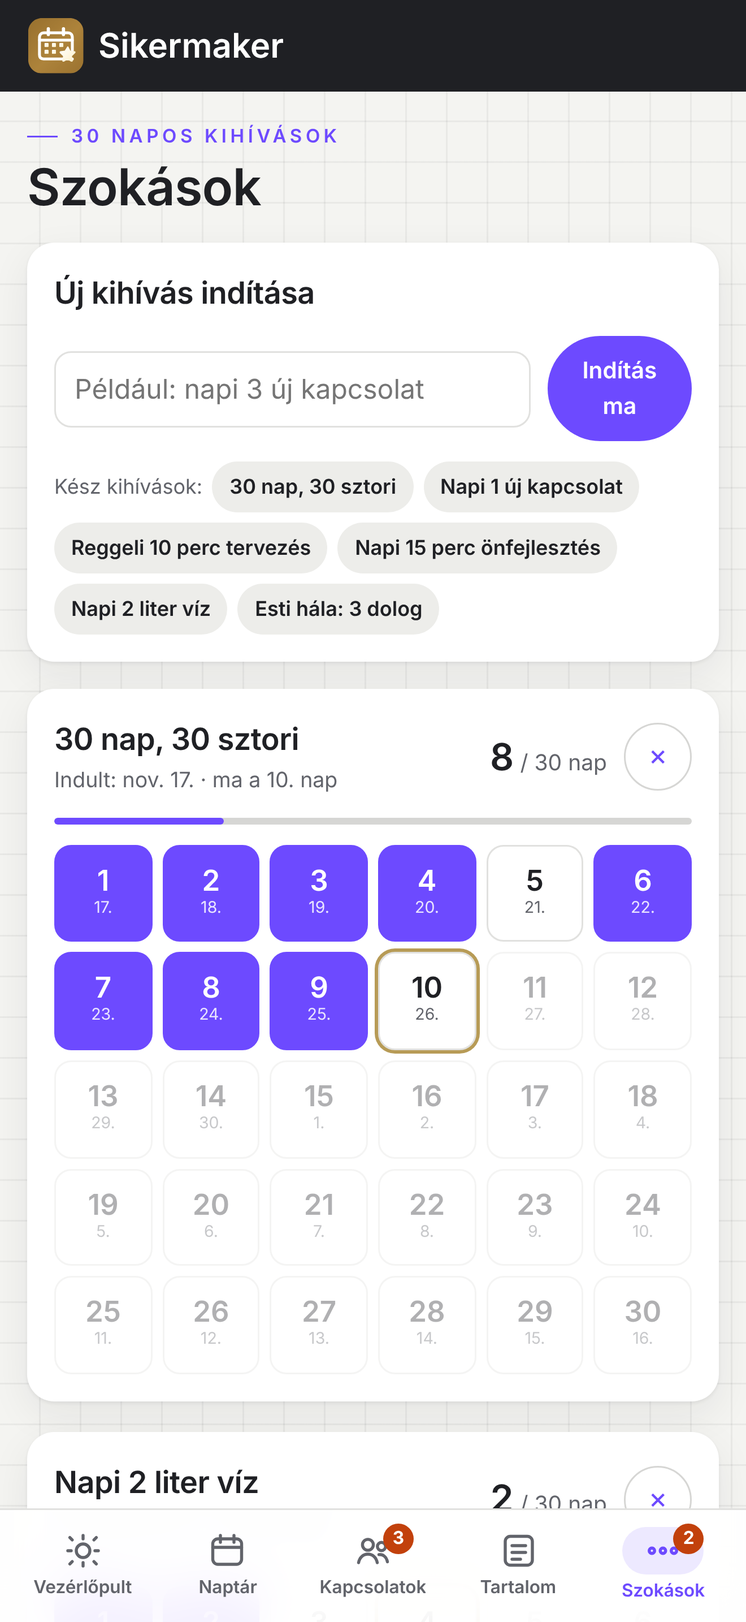
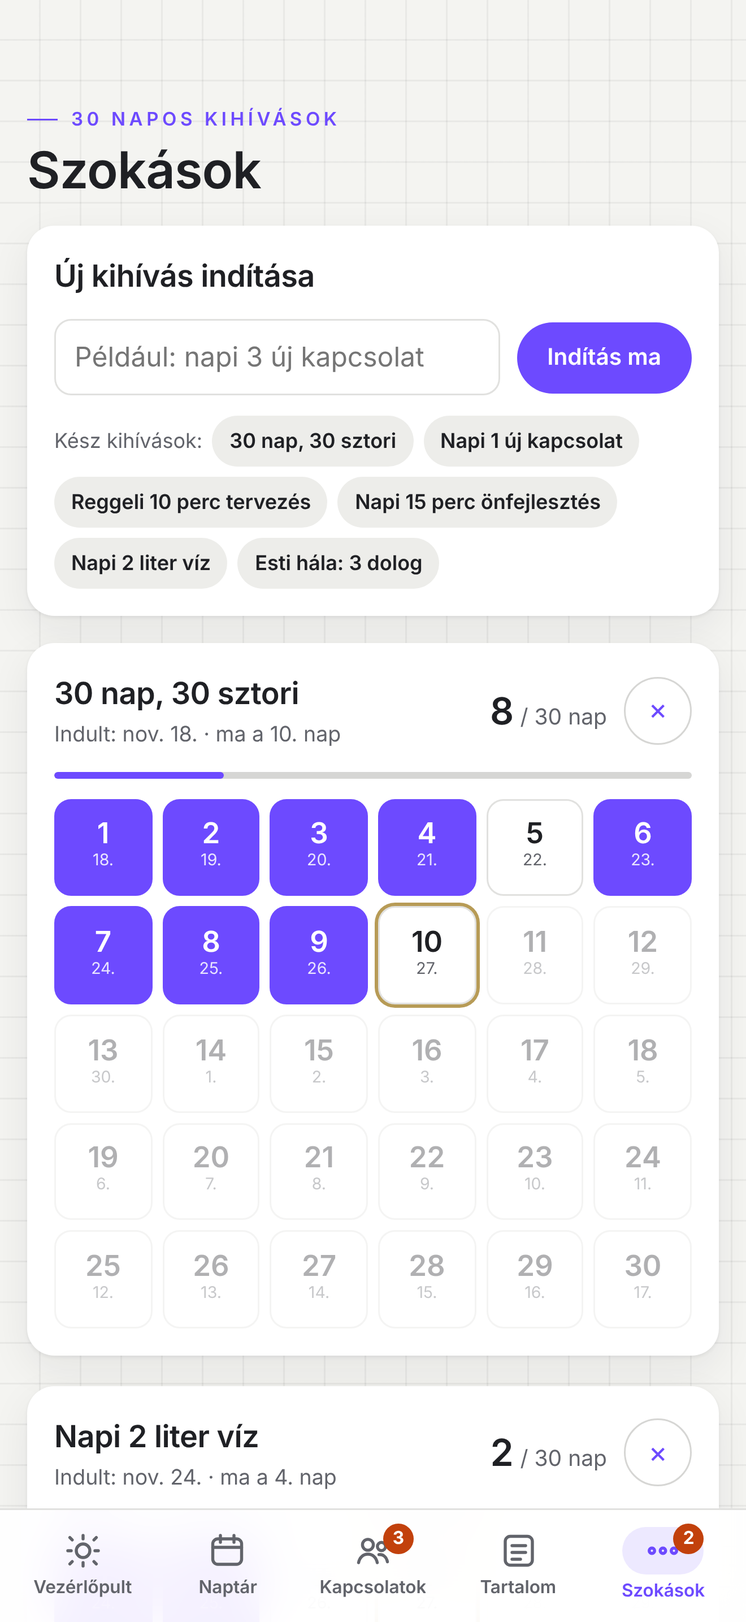
iOS-app: mobilos megjelenés és App Review-javítások
Megjelenés (telefon):
- az appban nincs sötét felső sáv: az oldal címe a fejléc, az állapotsor az oldal háttere fölött, elmosott sávval
- a lebegő gombok (értékelő, matricák) kisebbek, egymás mellett; az oldal alján hely marad alattuk
- havi naptár: Kezdet/Zárás rövid jele (K/Z) nem lóg ki, kis korona, jelmagyarázat listában
- „Indítás ma” egy sorban; Ügyfelek/Rendelések táblázat vízszintesen görgethető, nem nyomódik össze
- Gondolattérkép: a „Teljes térkép” a csomópontokra igazít, telefonon megnyitáskor is; álló minta-térkép;
  a vászon kitölti a képernyőt; alsó menüben „Térkép”
- kézírásos matrica nem törik a szó közepén; könyvborító-helyőrzők csak világosak

App Review:
- Info.plist: kamera- és fotótár-használat indoklása (a képfeltöltés „Fotó készítése” opciója enélkül leállítja az appot)
- az appban nem működő letöltések (adatok, oklevél) nem jelennek meg
- „hamarosan” feliratok és a még nem működő emlékeztető-opciók (periódus zárása, e-mail) az appban rejtve
- bemutató mód: „ezen a telefonon” a „böngésző” helyett; saját idézet a mintaadatban
- App Store-képernyőképek újragenerálva az új kinézettel

Claude-Session: https://claude.ai/code/session_01RZyFLAVJEo5LhVzanRKEyn

diff --git a/public/js/app.js b/public/js/app.js
@@ -56,7 +56,7 @@ function sample(){
       orders.push({id:uid(),date:iso(dt),client:names[i%names.length],items:["Arcápoló szett","Parfüm","Smink csomag","Vitamin","Testápoló"][i%5],amount:6000+Math.round(Math.random()*24)*1000,paid:m>0||Math.random()<.6});}
   }
   return {
-    v:1,seed:2,
+    v:1,seed:3,
     settings:{name:"Anna",cur:"Ft",steps:["Poszt","Sztori","Új kapcsolat","Utánkövetés",FEAT("csapat")?"Csapat":"Tanulás"]},
     days,
     contacts:[
@@ -101,7 +101,7 @@ function sample(){
 /* ---------- storage ---------- */
 let S=ctx.state&&ctx.state.v?ctx.state:(DEMO?sample():blank());
 // bemutató: ha a böngészőben egy régebbi mintaadat-készlet van elmentve, az újra cseréljük (a mintaadatok változtak)
-const DEMO_SEED=2;
+const DEMO_SEED=3; // 3: álló minta-gondolattérkép, saját idézet az olvasásnál
 if(DEMO&&(S.seed||0)<DEMO_SEED){S=sample();S.unlocked={};S.maps=[sampleMap()];setTimeout(save,0)}
 function save(){if(NATIVE&&ST.native)ST.native.reschedule(S);return ST.store.save(S)}
 function migrate(){
@@ -117,7 +117,7 @@ function migrate(){
 migrate();
 if(!S.mig3){if(S.blank){S.bp=S.bp||{};S.books=S.books||[]}else{S.bp=S.bp||{};}S.orders.forEach(o=>{if(o.points==null)o.points=Math.round((+o.amount||0)/450)});Object.assign(S.settings,{ptName:S.settings.ptName||"pont",ptGoal:S.settings.ptGoal||300,gpGoal:S.settings.gpGoal||4000,lvlName:S.settings.lvlName||"Vezető"});
   if(!S.blank){let g=1650;for(let i=12;i>=1;i--){const k=iso(addDays(TODAY,-i));if(k.slice(0,7)!==ym(TODAY))continue;g+=Math.round(40+Math.random()*90);S.bp[k]={gp:i%3===0?"":g,sp:i%4===0?12:""}}}
-  S.books=S.books||(S.blank?[]:[{id:uid(),title:"Atomi szokások",author:"James Clear",status:"olvasom",progress:40,started:iso(addDays(TODAY,-12)),note:"Nem a célom szintjére emelkedem, hanem a rendszereim szintjére süllyedek."},{id:uid(),title:"Gondolkodj és gazdagodj",author:"Napoleon Hill",status:"szeretnem",progress:0}]);
+  S.books=S.books||(S.blank?[]:[{id:uid(),title:"Atomi szokások",author:"James Clear",status:"olvasom",progress:40,started:iso(addDays(TODAY,-12)),note:"Minden nap egy kicsit jobban, mint tegnap."},{id:uid(),title:"Gondolkodj és gazdagodj",author:"Napoleon Hill",status:"szeretnem",progress:0}]);
   S.mig3=true;save()}
 if(!S.mig4){if(!S.periods)S.periods=S.blank?[{id:uid(),name:"Aktuális periódus",start:T,end:iso(addDays(TODAY,27))}]:[{id:uid(),name:"Aktuális periódus",start:iso(addDays(TODAY,-12)),end:iso(addDays(TODAY,8))},{id:uid(),name:"Következő periódus",start:iso(addDays(TODAY,9)),end:iso(addDays(TODAY,29))}];
   Object.assign(S.settings,{founder:S.settings.founder!=null?S.settings.founder:(DEMO&&BR.founder.enabled),founderSince:S.settings.founderSince||(DEMO?iso(addDays(TODAY,-20)):"")});
@@ -313,8 +313,8 @@ function nav(){
   if(tb){
     const restBadge=VIEWS.filter(([k])=>!TABS.includes(k)).reduce((a,[k])=>a+navBadge(k,dc),0);
     const inRest=!TABS.includes(route);
-    tb.innerHTML=TABS.map(k=>{const l=(VIEWS.find(v=>v[0]===k)||[k,k])[1],n=navBadge(k,dc);return `<a href="#${k}" class="tab" ${route===k?'aria-current="page"':""}>${nicon(k)}<span>${l}</span>${PRO_VIEWS.includes(k)?proTag("tpro"):""}${n?`<i class="tbadge">${n}</i>`:""}</a>`}).join("")
-      +`<button type="button" class="tab" data-act="more" ${inRest?'aria-current="page"':""} aria-haspopup="dialog">${nicon("tobb")}<span>${inRest?esc((VIEWS.find(v=>v[0]===route)||["",""])[1]):"Több"}</span>${restBadge?`<i class="tbadge">${restBadge}</i>`:""}</button>`;
+    tb.innerHTML=TABS.map(k=>{const l=({terkep:"Térkép"})[k]||(VIEWS.find(v=>v[0]===k)||[k,k])[1],n=navBadge(k,dc);return `<a href="#${k}" class="tab" ${route===k?'aria-current="page"':""}>${nicon(k)}<span>${l}</span>${PRO_VIEWS.includes(k)?proTag("tpro"):""}${n?`<i class="tbadge">${n}</i>`:""}</a>`}).join("")
+      +`<button type="button" class="tab" data-act="more" ${inRest?'aria-current="page"':""} aria-haspopup="dialog">${nicon("tobb")}<span>${inRest?esc(({terkep:"Térkép"})[route]||(VIEWS.find(v=>v[0]===route)||["",""])[1]):"Több"}</span>${restBadge?`<i class="tbadge">${restBadge}</i>`:""}</button>`;
   }
   const mt=$("#mtitle");if(mt)mt.textContent=(VIEWS.find(v=>v[0]===route)||["",""])[1];
 }
@@ -490,13 +490,13 @@ function vNaptar(){
       const hrs=hoursOf(k);
       const tk=dd?dd.tasks.length:0;
       cells+=`<button class="day ${d.getMonth()!==M-1?"out":""} ${k===T?"today":""} ${sc===5?"gold":""}" data-act="opennap" data-k="${k}" ${sc===5?'title="Arany nap: mind az 5 lépés megvolt"':""}>
-        <span class="n num">${d.getDate()}</span>${(()=>{const pm=periodMark(k);return pm?`<span class="pmark ${pm}">${pm==="start"?"Kezdet":"Zárás"}</span>`:""})()}${sc===5?`<span class="goldmark" aria-hidden="true">${TH.svg(ICONS.crown).replace(/width="\d+" height="\d+"/,'width="18" height="16"')}</span>`:""}
+        <span class="n num">${d.getDate()}</span>${(()=>{const pm=periodMark(k);return pm?`<span class="pmark ${pm}" data-s="${pm==="start"?"K":"Z"}">${pm==="start"?"Kezdet":"Zárás"}</span>`:""})()}${sc===5?`<span class="goldmark" aria-hidden="true">${TH.svg(ICONS.crown).replace(/width="\d+" height="\d+"/,'width="18" height="16"')}</span>`:""}
         <span class="marks">${cs.map(c=>`<span class="dot" style="background:var(--p${c.pillar+1})" title="${esc(c.title)}"></span>`).join("")}</span>
         ${hrs.length?`<span class="mini"><b>${pad(hrs[0][0])}:00</b> ${esc(hrs[0][1])}</span>`:""}${hrs.length>1?`<span class="mini">+${hrs.length-1} időpont</span>`:""}${tk&&hrs.length<2?`<span class="mini">${tk} teendő</span>`:""}${extOf(k).slice(0,2).map(e=>`<span class="mini extmini" style="--c:${esc(e.color)}">${e.allDay?"":`<b>${e.start}</b> `}${esc(e.title)}</span>`).join("")}${extOf(k).length>2?`<span class="mini">+${extOf(k).length-2} más naptárból</span>`:""}
         <span class="meter"><i style="width:${sc*20}%"></i></span></button>`;
       if(i===34&&addDays(start,35).getMonth()!==M-1)break;
     }
-    body=`<div class="calrow"><div class="card page"><div class="cal">${cells}</div><div class="row muted" style="font-size:12px;margin-top:12px"><span>Koppints egy napra a napi nézethez.</span><span>·</span><span>Korona: arany nap, mind az 5 lépés megvolt</span><span>·</span><span>Kezdet és Zárás: a periódus határai</span><span>·</span><span>A csík: napi lépések</span><span>·</span><span>Színes pötty: tartalom pillérenként</span></div>${board(activeBoard)}</div>${todoCard("m:"+ui.calMonth,"A hónap teendői","Írd ide, amit ebben a hónapban el akarsz intézni.")}</div>`;
+    body=`<div class="calrow"><div class="card page"><div class="cal">${cells}</div><div class="row muted calegend" style="font-size:12px;margin-top:12px"><span>Koppints egy napra a napi nézethez.</span><span class="sep">·</span><span>Korona: arany nap, mind az 5 lépés megvolt</span><span class="sep">·</span><span>Kezdet (K) és Zárás (Z): a periódus határai</span><span class="sep">·</span><span>A csík: napi lépések</span><span class="sep">·</span><span>Színes pötty: tartalom pillérenként</span></div>${board(activeBoard)}</div>${todoCard("m:"+ui.calMonth,"A hónap teendői","Írd ide, amit ebben a hónapban el akarsz intézni.")}</div>`;
   }else if(mode==="het"){
     const m=mondayOf(ui.selDay);activeBoard="het-"+iso(m);title=weekLabel(m);
     const cols=[0,1,2,3,4,5,6].map(i=>{const d=addDays(m,i),k=iso(d),dd=S.days[k]||{tasks:[],steps:[]};const sc=(dd.steps||[]).filter(Boolean).length;const hrs=hoursOf(k);const cs=S.content.filter(c=>c.date===k);
@@ -763,7 +763,7 @@ function openMsg(k,v,done){
   $("#layer").innerHTML=`<div class="modal" data-act="close"><div class="sheet" role="dialog" aria-label="Üzenet"><div class="row between"><div><div class="eyebrow">Üzenetvázlat</div><h2>${esc(TPL_DEFAULT[k][0])}${v.full?": "+esc(v.full):""}</h2></div><button type="button" class="iconbtn" data-act="close" aria-label="Bezárás">×</button></div>
   ${PRO&&!DEMO&&ctx.emailReady?`<div class="grid g2"><label class="f">E-mail-cím<input type="email" id="msgto" value="${esc(v.email||"")}" placeholder="pelda@pelda.hu"></label><label class="f">Tárgy<input type="text" id="msgsubj" maxlength="150" value="${esc(TPL_DEFAULT[k][0])}"></label></div>`:""}
   <label class="f">Igazítsd a saját szavaidra, aztán ${PRO&&!DEMO&&ctx.emailReady?"küldd el e-mailben, vagy ":""}másold be Messengerbe vagy SMS-be.<textarea id="msgtext" rows="6">${esc(fillTpl(k,v))}</textarea></label>
-  <div class="row between"><span class="muted" style="font-size:12px">${FEAT("sablonok")?"A sablonokat a Beállításokban írhatod át.":""}</span><span class="row">${PRO&&!DEMO&&!ctx.emailReady?'<button class="btn" data-act="msgcopy">Másolás</button><span class="chip" title="Az e-mail-küldés bekapcsolása folyamatban">E-mail: hamarosan</span>':PRO&&!DEMO?'<button class="btn" data-act="msgsend">Küldés e-mailben</button><button class="btn ghost" data-act="msgcopy">Másolás</button>':!PRO?'<button class="btn" data-act="msgcopy">Másolás</button><a class="chip" href="#kapcsolatok" title="E-mail küldése a Pro csomagban">E-mail: Pro</a>':'<button class="btn" data-act="msgcopy">Másolás</button>'}${done?`<button class="btn ghost" data-act="${done.act}" data-id="${done.id}">${esc(done.label)}</button>`:""}</span></div></div></div>`;
+  <div class="row between"><span class="muted" style="font-size:12px">${FEAT("sablonok")?"A sablonokat a Beállításokban írhatod át.":""}</span><span class="row">${PRO&&!DEMO&&!ctx.emailReady?'<button class="btn" data-act="msgcopy">Másolás</button>'+(NATIVE?"":'<span class="chip" title="Az e-mail-küldés bekapcsolása folyamatban">E-mail: hamarosan</span>'):PRO&&!DEMO?'<button class="btn" data-act="msgsend">Küldés e-mailben</button><button class="btn ghost" data-act="msgcopy">Másolás</button>':!PRO?'<button class="btn" data-act="msgcopy">Másolás</button><a class="chip" href="#kapcsolatok" title="E-mail küldése a Pro csomagban">E-mail: Pro</a>':'<button class="btn" data-act="msgcopy">Másolás</button>'}${done?`<button class="btn ghost" data-act="${done.act}" data-id="${done.id}">${esc(done.label)}</button>`:""}</span></div></div></div>`;
 }
 
 /* ---------- következő lépés ---------- */
@@ -946,7 +946,7 @@ async function openCert(id){
   const a=id==="alapito"?FOUNDER:ACH.find(x=>x.id===id);if(!a)return;
   $("#layer").innerHTML=`<div class="modal" data-act="close"><div class="sheet certsheet" role="dialog" aria-label="Oklevél"><div class="row between"><div><div class="eyebrow">Oklevél</div><h2>${esc(a.t)}</h2></div><button type="button" class="iconbtn" data-act="close" aria-label="Bezárás">×</button></div><div class="certprev" id="certprev"><span class="muted">Készül az oklevél…</span></div><div class="row between"><span class="muted" style="font-size:12px" id="certnote">Kinyomtathatod, vagy megoszthatod a közösségi oldaladon.</span><button class="btn" id="certdl" data-act="certdl" data-id="${a.id}" hidden>Letöltés (PNG)</button></div></div></div>`;
   const c=await drawCert(a);const url=c.toDataURL("image/png");const pv=$("#certprev");if(!pv)return;pv.innerHTML=`<img src="${url}" alt="Oklevél: ${esc(a.t)}">`;
-  window.__cert=c;const btn=$("#certdl");if(btn)btn.hidden=false;
+  window.__cert=c;const btn=$("#certdl");if(btn&&!NATIVE)btn.hidden=false;
 }
 function downloadCert(id){
   const c=window.__cert;if(!c)return;
@@ -958,20 +958,20 @@ function downloadCert(id){
 function remindNativeNote(){
   const st=ui.notif;
   if(st===undefined&&ST.native&&ST.native.remindAvailable()){ui.notif=null;ST.native.permission().then(ok=>{ui.notif=ok;render()})}
-  return `<p class="muted" style="margin:0;font-size:12.5px">A reggeli összefoglaló, az esti zárás, az utánkövetés és a születésnap értesítésként érkezik erre a telefonra (a periódus zárása és az e-mail később indul).</p>${st===false&&S.reminders&&S.reminders.push?`<div class="row"><button class="btn small" data-act="notifon">Értesítések engedélyezése</button><span class="muted" style="font-size:12px">Ha korábban letiltottad: iPhone Beállítások → Sikermaker → Értesítések.</span></div>`:""}`;
+  return `<p class="muted" style="margin:0;font-size:12.5px">A reggeli összefoglaló, az esti zárás, az utánkövetés és a születésnap értesítésként érkezik erre a telefonra.</p>${st===false&&S.reminders&&S.reminders.push?`<div class="row"><button class="btn small" data-act="notifon">Értesítések engedélyezése</button><span class="muted" style="font-size:12px">Ha korábban letiltottad: iPhone Beállítások → Sikermaker → Értesítések.</span></div>`:""}`;
 }
 const REMINDERS=[["reggel","Reggeli összefoglaló","Minden reggel: mai időpontok, kit keress meg, mai lépések."],["esti","Esti zárás","Este emlékeztet, hogy zárd le a napot."],["utan","Utánkövetés","Amikor valakit esedékes megkeresni."],["zaras","Periódus zárása","3 nappal és 1 nappal a zárás előtt, a hiányzó pontokkal."],["szulinap","Születésnap","Reggel, ha egy ügyfeled ünnepel."]];
 function remindersCard(){const r=S.reminders||(S.reminders={reggel:true,esti:true,utan:true,zaras:true,szulinap:true,reggelIdo:"07:30",estiIdo:"20:30",push:true,email:false});
   return `<div class="card stack"><h3>Emlékeztetők</h3>${NATIVE?remindNativeNote():`<p class="muted" style="margin:0;font-size:12.5px">A beállításaidat elmentjük. Az értesítések kiküldése (telefonos értesítés és e-mail) a következő fejlesztési lépésben indul.</p>`}
-  <div class="list">${REMINDERS.map(([k,l,d])=>`<div class="li"><button class="cbx" data-act="rem" data-k="${k}" aria-pressed="${!!r[k]}" aria-label="${esc(l)}">${r[k]?"✓":""}</button><div class="grow"><div class="t">${esc(l)}</div><div class="s">${esc(d)}</div></div>${k==="reggel"||k==="esti"?`<input type="time" class="remtime" id="rem-${k}" data-remt="${k}Ido" value="${r[k+"Ido"]}" aria-label="${esc(l)} időpontja">`:""}</div>`).join("")}</div>
-  <div class="row" style="gap:6px"><span class="lab2" style="margin:0">Hogyan?</span><button class="mood" data-act="rem" data-k="push" aria-pressed="${!!r.push}">Értesítés a telefonra</button><button class="mood" data-act="rem" data-k="email" aria-pressed="${!!r.email}">E-mail</button></div></div>`}
+  <div class="list">${REMINDERS.filter(([k])=>!(NATIVE&&k==="zaras")).map(([k,l,d])=>`<div class="li"><button class="cbx" data-act="rem" data-k="${k}" aria-pressed="${!!r[k]}" aria-label="${esc(l)}">${r[k]?"✓":""}</button><div class="grow"><div class="t">${esc(l)}</div><div class="s">${esc(d)}</div></div>${k==="reggel"||k==="esti"?`<input type="time" class="remtime" id="rem-${k}" data-remt="${k}Ido" value="${r[k+"Ido"]}" aria-label="${esc(l)} időpontja">`:""}</div>`).join("")}</div>
+  ${NATIVE?"":`<div class="row" style="gap:6px"><span class="lab2" style="margin:0">Hogyan?</span><button class="mood" data-act="rem" data-k="push" aria-pressed="${!!r.push}">Értesítés a telefonra</button><button class="mood" data-act="rem" data-k="email" aria-pressed="${!!r.email}">E-mail</button>`}</div></div>`}
 
 /* ---------- olvasás, könyvajánló ---------- */
 const BOOK_RECS_DEFAULT=[["Atomi szokások","James Clear","Apró változások, amelyekből nagy eredmény lesz."],["Hogyan szerezzünk barátokat és befolyásoljuk az embereket","Dale Carnegie","Kapcsolatépítés tukmálás nélkül."],["Gondolkodj és gazdagodj","Napoleon Hill","A célok és a kitartás klasszikusa."],["Gazdag papa, szegény papa","Robert T. Kiyosaki","Pénzügyi gondolkodás vállalkozóknak."],["A kiemelkedően sikeres emberek 7 szokása","Stephen R. Covey","Önvezetés és prioritások."],["Szemléletváltás","Carol S. Dweck","A fejlődési szemlélet ereje."]];
 const BOOK_RECS=BR.books.length?BR.books:BOOK_RECS_DEFAULT;
 const KLUB=FEAT("konyvklub")&&BR.books.length>0; // Könyvklub: a márka könyvlistája, a megadott sorrendben
 const BSTAT=[["olvasom","Most olvasom"],["szeretnem","Szeretném elolvasni"],["kesz","Elolvastam"]];
-function coverHTML(b){let h=0;for(const ch of b.title)h=(h*31+ch.charCodeAt(0))>>>0;const P=TH.palette(),cs=[P.accent,P.ink,P.hl500,P.accentDeep,P.grayDark,P.hl300],c=cs[h%6];const fg=TH.util.readableOn(c,P.ink,P.paper);return `<span class="bcover" style="background:${c};color:${fg}" aria-hidden="true"><span>${esc(b.title)}</span></span>`}
+function coverHTML(b){let h=0;for(const ch of b.title)h=(h*31+ch.charCodeAt(0))>>>0;const P=TH.palette(),mx=TH.util.mix,cs=[P.hl300,P.hl100,mx(P.accent,"#FFFFFF",0.78),mx(P.hl500,"#FFFFFF",0.6)],c=cs[h%4];const fg=TH.util.readableOn(c,P.ink,P.paper);return `<span class="bcover" style="background:${c};color:${fg}" aria-hidden="true"><span>${esc(b.title)}</span></span>`}
 /* ---------- notesz (márkafunkció) ---------- */
 // Lapozható jegyzetfüzet: S.notes = [{id,t,b,at}], a lap mintája S.prefs.paper = kockas | csikos | sima.
 const PAPERS=[["csikos","Vonalas"],["kockas","Kockás"],["sima","Sima"]];
@@ -1083,7 +1083,12 @@ function setMapZoom(m,z,keepCenter){
   if(cv){cv.style.transform=`scale(${z})`;sz.style.width=mapW(m)*z+"px";sz.style.height=mapH(m)*z+"px";if(lb)lb.textContent=Math.round(z*100)+"%"}
   if(w&&keepCenter!==false){w.scrollLeft=cx*z-w.clientWidth/2;w.scrollTop=cy*z-w.clientHeight/2}
 }
-function fitMap(m){const w=$("#mapwrap");if(!w)return;const z=Math.min(w.clientWidth/mapW(m),w.clientHeight/mapH(m))*0.98;setMapZoom(m,z,false);w.scrollLeft=0;w.scrollTop=0}
+// a teljes térkép: a csomópontok köré igazít (nem a teljes lapra), így telefonon is minden ág látszik
+function fitMap(m){const w=$("#mapwrap");if(!w)return;
+  if(!m.nodes.length){const z=Math.min(w.clientWidth/mapW(m),w.clientHeight/mapH(m))*0.98;setMapZoom(m,z,false);w.scrollLeft=0;w.scrollTop=0;return}
+  let x0=Infinity,y0=Infinity,x1=-Infinity,y1=-Infinity;m.nodes.forEach(n=>{const b=nodeBox(m,n);x0=Math.min(x0,n.x-b.w/2);x1=Math.max(x1,n.x+b.w/2);y0=Math.min(y0,n.y-b.h/2);y1=Math.max(y1,n.y+b.h/2)});
+  const pad=28,z=Math.min(1.2,w.clientWidth/(x1-x0+pad*2),w.clientHeight/(y1-y0+pad*2));setMapZoom(m,z,false);const zz=mapZoom(m);
+  w.scrollLeft=(x0+x1)/2*zz-w.clientWidth/2;w.scrollTop=(y0+y1)/2*zz-w.clientHeight/2}
 // becsült doboz-méret (px) egy ág szövegéhez — az ütközésfeloldáshoz
 function nodeBox(m,n){const l=nodeLevel(m,n),len=String(n.t||"").length||1;const cw=l===0?11:7.3,maxw=l===0?300:190,pad=l===0?44:30;const w=Math.min(maxw,len*cw+pad);const lines=Math.max(1,Math.ceil(len*cw/(w-pad)));return {w,h:l===0?lines*25+30:lines*17+20}}
 // egymásra lógó ágak széttolása (a középpont helyben marad)
@@ -1099,13 +1104,14 @@ function relaxMap(m,iter){
 }
 const curMap=()=>(S.maps||[]).find(m=>m.id===ui.mapId)||(S.maps||[])[0];
 function sampleMap(){
-  const r=uid(),a=uid(),b=uid(),c=uid(),d=uid();
+  // álló elrendezés (4 ág, ágankét 2 levél): telefonon is olvasható méretben elfér, asztalin is rendezett
+  const r=uid(),a=uid(),b=uid(),c=uid(),d=uid(),X=700,L=X-170,R=X+170;
   return {id:uid(),title:"A márkám jövőre",nodes:[
-    {id:r,x:700,y:430,t:"A márkám jövőre",p:null},
-    {id:a,x:430,y:250,t:"Kinek segítek?",p:r},{id:uid(),x:250,y:160,t:"Kisgyerekes anyukák",p:a},{id:uid(),x:240,y:300,t:"Mellékállást keresők",p:a},
-    {id:b,x:980,y:250,t:"Tartalom",p:r},{id:uid(),x:1170,y:160,t:"Heti 3 Reel",p:b},{id:uid(),x:1180,y:300,t:"Napi sztori",p:b},
-    {id:c,x:440,y:620,t:"Csapat",p:r},{id:uid(),x:250,y:700,t:"5 új vezető",p:c},
-    {id:d,x:970,y:620,t:"Bevétel",p:r},{id:uid(),x:1170,y:700,t:"Havi 500 000 Ft",p:d}]};
+    {id:r,x:X,y:450,t:"A márkám jövőre",p:null},
+    {id:a,x:L,y:210,t:"Kinek segítek?",p:r},{id:uid(),x:L,y:90,t:"Kisgyerekes anyukák",p:a},{id:uid(),x:L,y:330,t:"Mellékállást keresők",p:a},
+    {id:b,x:R,y:210,t:"Tartalom",p:r},{id:uid(),x:R,y:90,t:"Heti 3 Reel",p:b},{id:uid(),x:R,y:330,t:"Napi sztori",p:b},
+    {id:c,x:L,y:690,t:"Csapat",p:r},{id:uid(),x:L,y:570,t:"5 új vezető",p:c},{id:uid(),x:L,y:810,t:"Heti csapathívás",p:c},
+    {id:d,x:R,y:690,t:"Bevétel",p:r},{id:uid(),x:R,y:570,t:"Havi 500 000 Ft",p:d},{id:uid(),x:R,y:810,t:"Új termékcsomag",p:d}]};
 }
 function nodeLevel(m,n){let l=0,cur=n;while(cur&&cur.p&&l<9){cur=m.nodes.find(x=>x.id===cur.p);l++}return l}
 function edgePath(a,b){const mx=(a.x+b.x)/2;return `M${a.x},${a.y} C${mx},${a.y} ${mx},${b.y} ${b.x},${b.y}`}
@@ -1136,7 +1142,7 @@ function bindMap(){
   if(route!=="terkep")return;
   const m=curMap(),cv=$("#mapcanvas"),wrap=$("#mapwrap");if(!cv||!m)return;
   const Z=()=>mapZoom(m);
-  if(mapCentered!==m.id){mapCentered=m.id;if(m.fitOnOpen){delete m.fitOnOpen;fitMap(m)}else{const r=m.nodes.find(n=>!n.p);if(r){wrap.scrollLeft=r.x*Z()-wrap.clientWidth/2;wrap.scrollTop=r.y*Z()-wrap.clientHeight/2}}}
+  if(mapCentered!==m.id){mapCentered=m.id;if(m.fitOnOpen||matchMedia("(max-width:860px)").matches){delete m.fitOnOpen;fitMap(m)}else{const r=m.nodes.find(n=>!n.p);if(r){wrap.scrollLeft=r.x*Z()-wrap.clientWidth/2;wrap.scrollTop=r.y*Z()-wrap.clientHeight/2}}}
   // Ctrl/⌘ + görgetés és csippentés (érintőpad) = nagyítás
   if(!wrap.dataset.zb){wrap.dataset.zb="1";wrap.addEventListener("wheel",e=>{if(!(e.ctrlKey||e.metaKey))return;e.preventDefault();setMapZoom(curMap(),mapZoom(curMap())*(e.deltaY<0?1.1:0.9))},{passive:false});
     let pd=0;wrap.addEventListener("touchmove",e=>{if(e.touches.length!==2)return;const d=Math.hypot(e.touches[0].clientX-e.touches[1].clientX,e.touches[0].clientY-e.touches[1].clientY);if(pd){e.preventDefault();setMapZoom(curMap(),mapZoom(curMap())*d/pd)}pd=d},{passive:false});wrap.addEventListener("touchend",()=>{pd=0})}
@@ -1292,10 +1298,10 @@ function brandCard(){
   return `<div class="grid g2" style="align-items:start" id="arculat"><div class="card stack" style="gap:14px"><h3 style="margin:0">Háttér</h3><p class="muted" style="margin:0;font-size:12.5px">Csak nálad látszik, bármikor visszaváltható.</p><div class="bgpick">${pats}</div><div class="colorrow">${cols}<input type="color" data-bgc="1" value="${bp.bgColor}" aria-label="Saját háttérszín"></div></div>${wl}</div>`;
 }
 function accountCard(){
-  if(DEMO)return `<div class="card stack"><h3>Bemutató mód</h3><p class="muted" style="margin:0">Most belépés nélkül, mintaadatokkal próbálod a tervezőt: amit beírsz, csak ebben a böngészőben marad meg. Fiókkal minden eszközödön ugyanazt látod.</p>
+  if(DEMO)return `<div class="card stack"><h3>Bemutató mód</h3><p class="muted" style="margin:0">Most belépés nélkül, mintaadatokkal próbálod a tervezőt: amit beírsz, csak ${NATIVE?"ezen a telefonon":"ebben a böngészőben"} marad meg. Fiókkal minden eszközödön ugyanazt látod.</p>
   <div class="row">${ctx.cloud?`<button class="btn" data-act="signup">${SIGNUP_CTA}</button>`:""}<span id="resetrow" class="row"><button class="btn ghost" data-act="resetask">Mintaadatok visszaállítása</button></span></div>
 </div>`;
-  return `<div class="card stack"><h3>Fiók</h3><div class="row between"><div><b>${esc((ctx.user&&ctx.user.email)||"")}</b><div class="muted" style="font-size:12.5px">A terved a fiókodhoz van mentve, minden eszközödön ugyanaz.</div>${consentRow()}</div><span class="row"><button class="btn ghost small" data-act="export">Adataim letöltése</button><button class="btn ghost small" data-act="logout">Kijelentkezés</button></span></div>${delAccountBlock()}</div>`;
+  return `<div class="card stack"><h3>Fiók</h3><div class="row between"><div><b>${esc((ctx.user&&ctx.user.email)||"")}</b><div class="muted" style="font-size:12.5px">A terved a fiókodhoz van mentve, minden eszközödön ugyanaz.</div>${consentRow()}</div><span class="row">${NATIVE?"":'<button class="btn ghost small" data-act="export">Adataim letöltése</button>'}<button class="btn ghost small" data-act="logout">Kijelentkezés</button></span></div>${delAccountBlock()}</div>`;
 }
 
 // Fiókom törlése (App Store 5.1.1(v), GDPR): a saját e-mail-cím beírásával erősíti meg; minden adat törlődik
@@ -1560,7 +1566,7 @@ function calSyncCard(){
     <details class="howto"><summary>Hogyan kötöm be?</summary><ol><li><b>iPhone:</b> koppints a „Megnyitás a telefonon” gombra, majd az „Előfizetés” gombra. Vagy kézzel: Beállítások → Naptár → Fiókok → Fiók hozzáadása → Egyéb → Előfizetett naptár → illeszd be a linket.</li><li><b>Google Naptár:</b> számítógépen a calendar.google.com oldalon bal oldalt a „Más naptárak” melletti <b>+</b> → „URL alapján” → illeszd be a linket → „Naptár hozzáadása”.</li><li><b>Outlook:</b> Naptár → Naptár hozzáadása → Feliratkozás a webről.</li></ol><p class="muted" style="margin:0;font-size:12px">A Google és az iPhone néhány óránként frissíti a feliratkozott naptárt, ezért egy új időpont késéssel jelenhet meg.</p></details>`;
   }
   return `<div class="card stack" id="naptarszinkron" style="gap:12px"><div class="row between"><h3 style="margin:0">Naptár-szinkron${proTag()}</h3><span class="chip">Google · iPhone · Outlook</span></div>${body}${PRO&&!DEMO?'<hr class="sep">'+importsBlock():""}
-  <p class="muted" style="margin:0;font-size:12px">A tervezőből a naptáraidba: feliratkozó link. A naptáraidból a tervezőbe: a „Más naptárak behúzása” rész. A Google Naptárba közvetlen írás (teljes kétirányú szinkron) hamarosan.</p></div>`;
+  <p class="muted" style="margin:0;font-size:12px">A tervezőből a naptáraidba: feliratkozó link. A naptáraidból a tervezőbe: a „Más naptárak behúzása” rész.${NATIVE?"":" A Google Naptárba közvetlen írás (teljes kétirányú szinkron) hamarosan."}</p></div>`;
 }
 
 /* ---------- heti és havi értékelő ---------- */

diff --git a/public/css/app.css b/public/css/app.css
@@ -796,3 +796,39 @@ hr.sep{border:0;border-top:1px solid var(--line);margin:4px 0;width:100%}
 .btn.danger{background:#B42318;border-color:#B42318;color:#fff}
 .btn.dangerline{color:#B42318;border-color:color-mix(in srgb,#B42318 45%,transparent)}
 .admdelc{display:block;flex:1 1 100%;background:#FDECEA;color:#7A1A12;border-radius:12px;padding:12px 14px;font-size:13px;line-height:1.5}
+
+/* ---------- iOS-app (html.native, js/native.js) ----------
+   Nincs sötét felső sáv: az oldal címe („Szia, …”, „November 2026”) a fejléc, az állapotsor az oldal háttere fölött van.
+   A biztonsági sáv (óra, akkumulátor) mögé a görgetett tartalom elmosva látszik, ahogy az iOS-appokban szokás. */
+.native .side{display:none}
+.native body::before{content:"";display:block;position:fixed;inset:0 0 auto;height:env(safe-area-inset-top,0px);z-index:35;
+  background:color-mix(in srgb,var(--bg) 82%,transparent);-webkit-backdrop-filter:saturate(1.6) blur(14px);backdrop-filter:saturate(1.6) blur(14px)}
+.native .main{padding-top:calc(env(safe-area-inset-top,0px) + 14px)}
+
+/* ---------- telefon: lebegő gombok, naptár, űrlapok, táblázatok ---------- */
+@media (max-width:860px){
+  /* a lebegő gombok (értékelő, matricák) kisebbek és egymás mellett vannak; az oldal alján hely marad alattuk */
+  .drawer{flex-direction:row;align-items:flex-end;gap:10px;right:max(12px,env(safe-area-inset-right,0px));bottom:calc(var(--tabbar-h) + 10px + env(safe-area-inset-bottom,0px))}
+  .drawer .fab,.drawer .revfab{width:44px;height:44px}
+  .drawer .fab .fi,.drawer .revfab .fi{font-size:18px}
+  .main{padding-bottom:calc(var(--tabbar-h) + 84px + env(safe-area-inset-bottom,0px))}
+  /* havi naptár: a Kezdet/Zárás jelölés rövid betű, a korona kicsi és nem lóg a dátumra */
+  .day .pmark{font-size:0;padding:0;width:16px;height:16px;border-radius:99px;display:grid;place-items:center;align-self:flex-start}
+  .day .pmark::after{content:attr(data-s);font-size:9.5px;letter-spacing:0}
+  .day{position:relative}
+  .goldmark{top:4px;right:4px}
+  .goldmark svg{width:12px;height:11px}
+  .calegend{flex-direction:column;align-items:flex-start;gap:2px}
+  .calegend .sep{display:none}
+  /* az „Indítás ma” egy sorban */
+  form[data-form="habit"] .btn{white-space:nowrap;flex:none}
+  /* széles táblázatok (Ügyfelek, Rendelések): vízszintesen görgethetők, nem nyomódnak össze */
+  .tablewrap{margin-inline:-4px;padding-inline:4px}
+  .tablewrap table{min-width:600px}
+  .tablewrap th,.tablewrap td{white-space:nowrap}
+  /* gondolattérkép: a vászon kitölti a képernyőt a menüsor fölött */
+  .mapwrap{height:calc(100dvh - var(--tabbar-h) - 150px - env(safe-area-inset-bottom,0px) - env(safe-area-inset-top,0px));min-height:360px}
+}
+/* kézírásos matrica: a szó közepén ne törjön („Megcsinálta / m!”) */
+.hnote,.cbtn .hnote{overflow-wrap:normal;word-break:normal;hyphens:manual}
+.cbtn .hnote{max-width:100%;font-size:calc(18px * var(--ss))}

diff --git a/public/js/native.js b/public/js/native.js
@@ -15,6 +15,8 @@
   const C = window.Capacitor;
   const on = !!(C && typeof C.isNativePlatform === "function" && C.isNativePlatform());
   const ORIGIN = "https://sikermaker.hu";
+  // az appban a <html class="native">: a CSS ehhez igazítja a megjelenést (nincs sötét felső sáv stb.)
+  if (on) document.documentElement.classList.add("native");
   const plugin = (name) => { try { return on && C.registerPlugin ? C.registerPlugin(name) : null; } catch (e) { return null; } };
   const Http = plugin("CapacitorHttp"), App = plugin("App"), LN = plugin("LocalNotifications"), Haptics = plugin("Haptics"), Browser = plugin("Browser");
 
@@ -121,16 +123,17 @@
   // mentésenként újraütemezés (összevonva), hogy a szöveg a friss teendőket mutassa
   function reschedule(state) { if (!on || !LN) return; clearTimeout(schedTimer); schedTimer = setTimeout(() => schedule(state, false), 1500); }
 
-  // állapotsor: a felső sáv (theme-color) színéhez igazított szövegszín; a márka színe menet közben is változhat
+  // állapotsor: az appban nincs sötét felső sáv, az állapotsor az oldal háttere fölött van → a háttér
+  // világosságához igazított szövegszín (a márka háttere menet közben is változhat)
   const StatusBar = plugin("StatusBar");
   function syncStatusBar() {
-    const m = document.querySelector('meta[name="theme-color"]'), c = (m && m.getAttribute("content")) || "#1F2024";
-    const h = /^#([0-9a-f]{6})$/i.exec(c.trim()); if (!h || !StatusBar) return;
-    const n = parseInt(h[1], 16), lum = (0.299 * (n >> 16) + 0.587 * ((n >> 8) & 255) + 0.114 * (n & 255)) / 255;
+    if (!StatusBar || !document.body) return;
+    const m = /rgba?\((\d+),\s*(\d+),\s*(\d+)/.exec(getComputedStyle(document.body).backgroundColor || "");
+    const lum = m ? (0.299 * m[1] + 0.587 * m[2] + 0.114 * m[3]) / 255 : 1;
     StatusBar.setStyle({ style: lum < 0.6 ? "DARK" : "LIGHT" }).catch(() => {}); // DARK = világos betű sötét háttéren
   }
   if (on && StatusBar) {
-    const start = () => { syncStatusBar(); const m = document.querySelector('meta[name="theme-color"]'); if (m) new MutationObserver(syncStatusBar).observe(m, { attributes: true }); };
+    const start = () => { syncStatusBar(); if (typeof MutationObserver === "function") new MutationObserver(syncStatusBar).observe(document.documentElement, { attributes: true, attributeFilter: ["style", "class"] }); };
     if (document.readyState === "loading") document.addEventListener("DOMContentLoaded", start); else start();
   }
 
